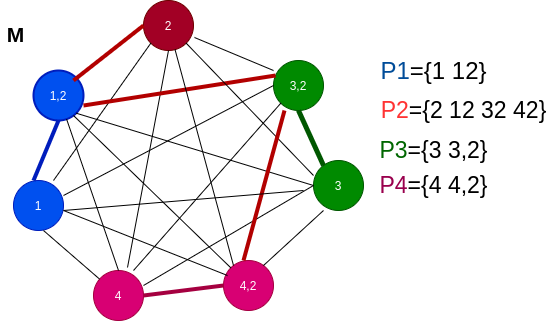
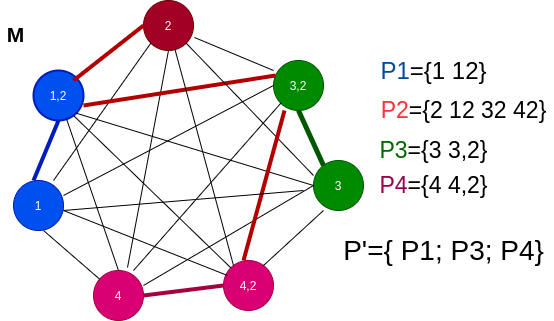
Update report

Changed region(s): [[0.6137, 0.7477, 0.9819, 0.8411]]

diff --git a/TP3/Informe TP3 TDA - Rosita Forever/Informe/Secciones/parte2.tex b/TP3/Informe TP3 TDA - Rosita Forever/Informe/Secciones/parte2.tex
@@ -20,3 +20,46 @@ Sin embargo, como se describirá en el siguiente apartado, el problema es NP-Com
 
 \subsection{Demostración NP-C}
 %=============================================
+Para poder demostrar que el problema es NP-Completo, se decidió proceder realizando la demostración a partir de dos hipótesis:
+\begin{itemize}
+    \item El problema es NP
+    \item El problema es NP-Hard
+\end{itemize}
+
+Si ambas se cumplen, podemos afirmar que el problema es NP-Completo.
+
+En primer lugar, se debe demostrar que es NP. Utilizando la notación previa, se puede decir que el subconjunto C puede tener tantos elementos como el conjunto original. Para poder hallar a W es preciso realizar las sumas asociadas a las iteraciones de los diferentes $w_{i}$. Esto se puede resolver en tiempo polinomial, luego el problema es NP.
+
+Ahora se debe probar que el problema es NP-Hard. 
+
+Para eso se va a demostrar:
+
+\begin{equation}
+    3DM \leq_{p} SUBSET-SUM
+\end{equation}
+
+La demostración se sustenta en que es conocido que el problema 3 dimensional matching es NP-C.
+
+Para proceder a demostrar que el problema SUBSET SUM se puede reducir a 3DM se planteará que el conjunto C\subseteq X,Y,Z, siendo estos conjuntos ordenados disjuntos de tamaño n cada uno. Se desea determinar si existe el conjunto C.
+
+Luego, se procede a representar a una tripla $t={x_{i}, y_{i}, z_{i}}$ como una serie de bits de tamaño 3n. A los efectos de resolver el problema se plantea que el conjunto C se puede representar como se demuestra a continuación:
+
+\begin{figure}[H]
+\centering
+\includegraphics[width=0.7\textwidth]{Informe/Imagenes/Parte2/imagen1.png}
+\caption{\label{fig:class01}Representación de tripla}
+\end{figure}
+
+No obstante, esta representación trae aparejado un posible problema de overflow. Esto se puede observar en la siguiente representación:
+
+\begin{figure}[H]
+\centering
+\includegraphics[width=0.5\textwidth]{Informe/Imagenes/Parte2/imagen2.png}
+\caption{\label{fig:class01}Problema de overflow}
+\end{figure}
+
+Para evitar esta situación se debe elegir una representación en una base al menos un valor mayor de la cantidad de triplas, ya que esto imposibilita que se presente el overflow.
+
+Al llegar a una representación del problema que se puede caracterizar por 3DM, podemos afirmar que el mismo representa a un problema similar a 3DM. 
+
+Por lo tanto, como 3DM es NP-C, se probó la ecuación (2) y también que el problema es NP, se puede afirmar que se trata de un problema NP-C.

diff --git a/TP3/Informe TP3 TDA - Rosita Forever/Informe/Secciones/parte1.tex b/TP3/Informe TP3 TDA - Rosita Forever/Informe/Secciones/parte1.tex
@@ -53,15 +53,8 @@ Sea el grafo $M = (V', E')$ donde $V' = V \cup \{ x_{u,v} \, : \, (u,v) \in E \}
 
 Para cada $u \in V$ siendo $v_1, v_2, \dots, v_m$ los vecinos de $u$ en $G$ y definamos la ruta $P_u = \langle u, x_{u,v_1}, x_{u,v_2}, \dots, x_{u,v_m} \rangle⟩$ en $M$. Siendo $\mathcal{P} = \{P_u \, : \, u \in V\}$.\newline
 
-Hay un conjunto independiente de tamaño como máximo $k$ en $G$, si y solo si hay un subconjunto $\mathcal{P}'$ con $|\mathcal{P}'| \le k$ tal que los caminos en $\mathcal{P}'$ son vértices disjuntos de a pares.
-
-\begin{figure}[H]
-\centering
-\includegraphics[width=0.9\textwidth]{Informe/Imagenes/Parte1/grafico 4.png}
-\caption{\label{fig:class01}Nodos independientes}
-\end{figure}
-
-Más precisamente, si $S$ es un conjunto independiente de $G$, entonces $\{ P_u \, : \, u \in S \}$ es una colección de caminos separados de vértices por pares en $M$ y, si $\mathcal{P}'$ es una colección de caminos separados de vértices por pares en $M$, entonces $\{u \, : \, P_u \in \mathcal{P}' \}$ es un conjunto independiente de $G$.
+Hay un conjunto independiente de tamaño como máximo $k$ en $G$, si y solo si hay un subconjunto $\mathcal{P}'$ con $|\mathcal{P}'| \le k$ tal que los caminos en $\mathcal{P}'$ son vértices disjuntos. \newline
+Para visualizarlo, construimos los siguientes Paths en M: 
 
 \begin{figure}[H]
 \centering
@@ -69,10 +62,20 @@ Más precisamente, si $S$ es un conjunto independiente de $G$, entonces $\{ P_u 
 \caption{\label{fig:class01}Rutas}
 \end{figure}
 
+Ahora queda formado un $\mathcal{P}'$ =  \{ P1; P3; P4 \} con $|\mathcal{P}'| = 3$ que representa en nuestro grafo G:
+
 \begin{figure}[H]
 \centering
-\includegraphics[width=0.9\textwidth]{Informe/Imagenes/Parte1/grafico 5.png}
-\caption{\label{fig:class01}Demostración NP-Completo}
+\includegraphics[width=0.9\textwidth]{Informe/Imagenes/Parte1/grafico 4.png}
+\caption{\label{fig:class01}Nodos Independientes}
+\end{figure}
+
+Más precisamente, si $S$ es un conjunto independiente de $G$, entonces $\{ P_u \, : \, u \in S \}$ es una colección de caminos separados de vértices $M$ y, si $\mathcal{P}'$ es una colección de caminos separados de vértices en $M$, entonces $\{u \, : \, P_u \in \mathcal{P}' \}$ es un conjunto independiente de $G$.
+
+\begin{figure}[H]
+\centering
+\includegraphics[width=1.148\textwidth]{Informe/Imagenes/Parte1/grafico 5.png}
+\caption{\label{fig:class01} Vista General}
 \end{figure}
 %=============================================
 

diff --git a/TP3/Informe TP3 TDA - Rosita Forever/Informe/Secciones/parte3.tex b/TP3/Informe TP3 TDA - Rosita Forever/Informe/Secciones/parte3.tex
@@ -1,7 +1,28 @@
 \section{Un poco de teoría}
 %=============================================
 \subsection{Definiciones}
-Defina y explique (si es necesario con ejemplos) qué significa que un problema sea P, NP, NP-Completo y NP-Hard
+\subsubsection{Problemas P y NP}
+Un problema P es todo aquel problema de decisión que se puede resolver eficientemente (es decir, en tiempo polinomial), mientras que un problema NP es el que, contando con una posible solución del mismo, ésta se puede verificar eficientemente.\\
+
+\subsection{NP-completo y NP-hard}
+Si todo problema NP se puede reducir al problema A, A es un problema NP-hard. Y los NP-complete son aquellos problemas NP-hard que además son NP.\\
+
+\subsection{Complejidad}
+Si quisiéramos ordenar estos problemas de menor a mayor complejidad, en términos generales: 
+\begin{itemize}
+    \item P
+    \item NP
+    \item NP-Completo
+    \item NP-Hard
+\end{itemize}
+
+\subsection{Ejemplos}
+\begin{itemize}
+    \item Problema P, NP: Camino más corto.
+    \item Problema NP-completo: Problema de la mochila.
+    \item Problema NP-hard: Problema de la parada.
+\end{itemize}
+
 %=============================================
 
 \subsection{Problema}
@@ -9,11 +30,13 @@ Tenemos un problema A, un problema B y una caja negra NA y NB que resuelven el p
 %=============================================
 \subsubsection{I}
 Qué podemos decir de A si utilizamos NA para resolver el problema B (asumimos que la reducción realizada para adaptar el problema B al problema A es polinomial)
+
+Podemos decir que A es igual o menos complejo que B.
 %=============================================
 \subsubsection{II}
 Qué podemos decir de A si utilizamos NB para resolver el problema A (asumimos que la reducción realizada para adaptar el problema A al problema B es polinomial)\newline
 
-Decimos que A es igual o menos complejo que B.
+No podemos decir nada de A porque como NB resuelve NP, le podemos pasar tanto problemas P como NP
 %=============================================
 
 \subsubsection{III}

diff --git a/TP3/Informe TP3 TDA - Rosita Forever/Informe/Secciones/conclusiones.tex b/TP3/Informe TP3 TDA - Rosita Forever/Informe/Secciones/conclusiones.tex
@@ -3,7 +3,8 @@ Habiendo culminado el trabajo podemos efectuar las siguientes conclusiones:
 %=============================================
  \subsection{Manifestaciones seguras}    
 \begin{itemize}
-    \item 
+    \item El problema se simplifica al modelar la ciudad como un grafo.
+    \item Cada vértice independiente en \emph{Independet set} equivale a un camino independiente en nuestro problema
 \end{itemize}
 %=============================================
  \subsection{División de Bienes}    
@@ -13,6 +14,6 @@ Habiendo culminado el trabajo podemos efectuar las siguientes conclusiones:
 %=============================================
 \subsection{Un poco de teoría}    
 \begin{itemize}
-    \item 
+    \item Un problema solo puede ser resuelto por otro igual o más complejo que el primero
 \end{itemize}
 %=============================================

diff --git a/TP3/Informe TP3 TDA - Rosita Forever/Informe/Secciones/bibliografia.tex b/TP3/Informe TP3 TDA - Rosita Forever/Informe/Secciones/bibliografia.tex
@@ -2,6 +2,5 @@
 \begin{itemize}
     \item J. Kleinberg, E. Tardos, Algorithm Design
     \item T. Cormen, C. Leiserson, R. Rivest, C. Stein, Introduction to Algorithms
-    \item  Dr. Andrew Harrington, "Comp 363: Algorithms - Spring 2019" - Universidad Loyola Chicago.
 \end{itemize}
  %=============================================

diff --git a/TP3/Informe TP3 TDA - Rosita Forever/Informe/Secciones/caratula.tex b/TP3/Informe TP3 TDA - Rosita Forever/Informe/Secciones/caratula.tex
@@ -1,7 +1,7 @@
 \title{
     \includegraphics[width=10cm]{"Logo FIUBA".jpg}\newline
     Teoría de Algoritmos I 75.29\\
-    Trabajo Práctico N\textsuperscript{\underline{o}} 1\
+    Trabajo Práctico N\textsuperscript{\underline{o}} 3\
 }
 \author{Grupo Rosita Forever}
 \date{}
